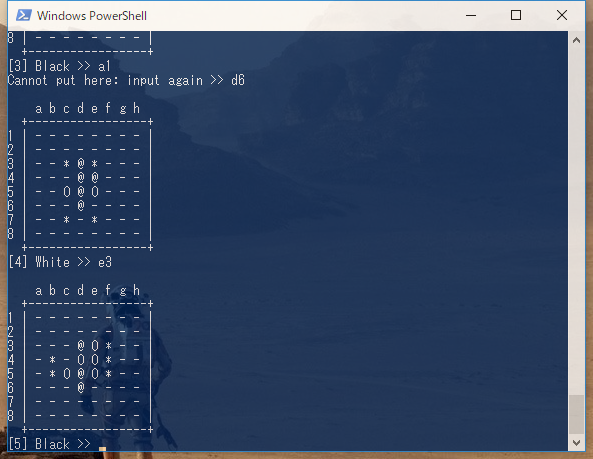
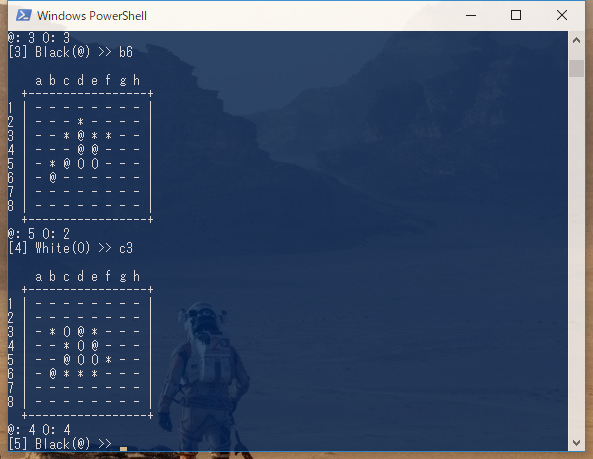
入力の修正

diff --git a/src/main.c b/src/main.c
@@ -5,8 +5,16 @@
 #include "board.h"
 #include "evaluation.h"
 
+// 探索レベル
 #define SEARCH_LEVEL 5
 
+// 座標値-文字間変換
+#define TO_INT_X(c) (c - 0x60)
+#define TO_INT_Y(c) (c - 0x30)
+#define TO_CHAR_X(x) (x + 0x60)
+#define TO_CHAR_Y(y) (y + 0x30)
+
+// 操作者
 typedef enum
 {
     PLAYER, // プレイヤー 
@@ -24,6 +32,7 @@ int main()
 
     init_board(&board);
 
+    // 順に黒番、白番
     Operator op[2];
 
     select_player(op);
@@ -74,7 +83,7 @@ int main()
 void select_player(Operator* op)
 {
     printf("Select your turn\n");
-    printf("1: Black 2: White 3: Auto\n");
+    printf("1: Black 2: White 3: None (COM vs COM)\n");
 
     while (true)
     {
@@ -133,8 +142,8 @@ void input(Board* board, Operator* op)
         {
             // 入力した文字を1~8の(x, y)座標に変換
             fgets(input, 3, stdin);
-            x = tolower(input[0]) - '`';
-            y = input[1] - '0';
+            x = TO_INT_X(tolower(input[0]));
+            y = TO_INT_Y(input[1]);
             fflush(stdin);
 
             // 石の設置判定
@@ -147,6 +156,8 @@ void input(Board* board, Operator* op)
                 printf("Cannot put here: input again >> ");
             }
         }
+
+        put_and_flip(TO_POS(x, y), board->current_turn, board);
     }
     else
     {
@@ -156,7 +167,7 @@ void input(Board* board, Operator* op)
         negamax(&move, board->current_turn, board->current_turn, SEARCH_LEVEL, board);
 
         // プレイヤーと同様に入力座標を表示
-        printf("%c%c\n", TO_X(move) + 0x60, TO_Y(move) + 0x30);
+        printf("%c%c\n", TO_CHAR_X(TO_X(move)), TO_CHAR_Y(TO_Y(move)));
 
         put_and_flip(move, board->current_turn, board);
     }
